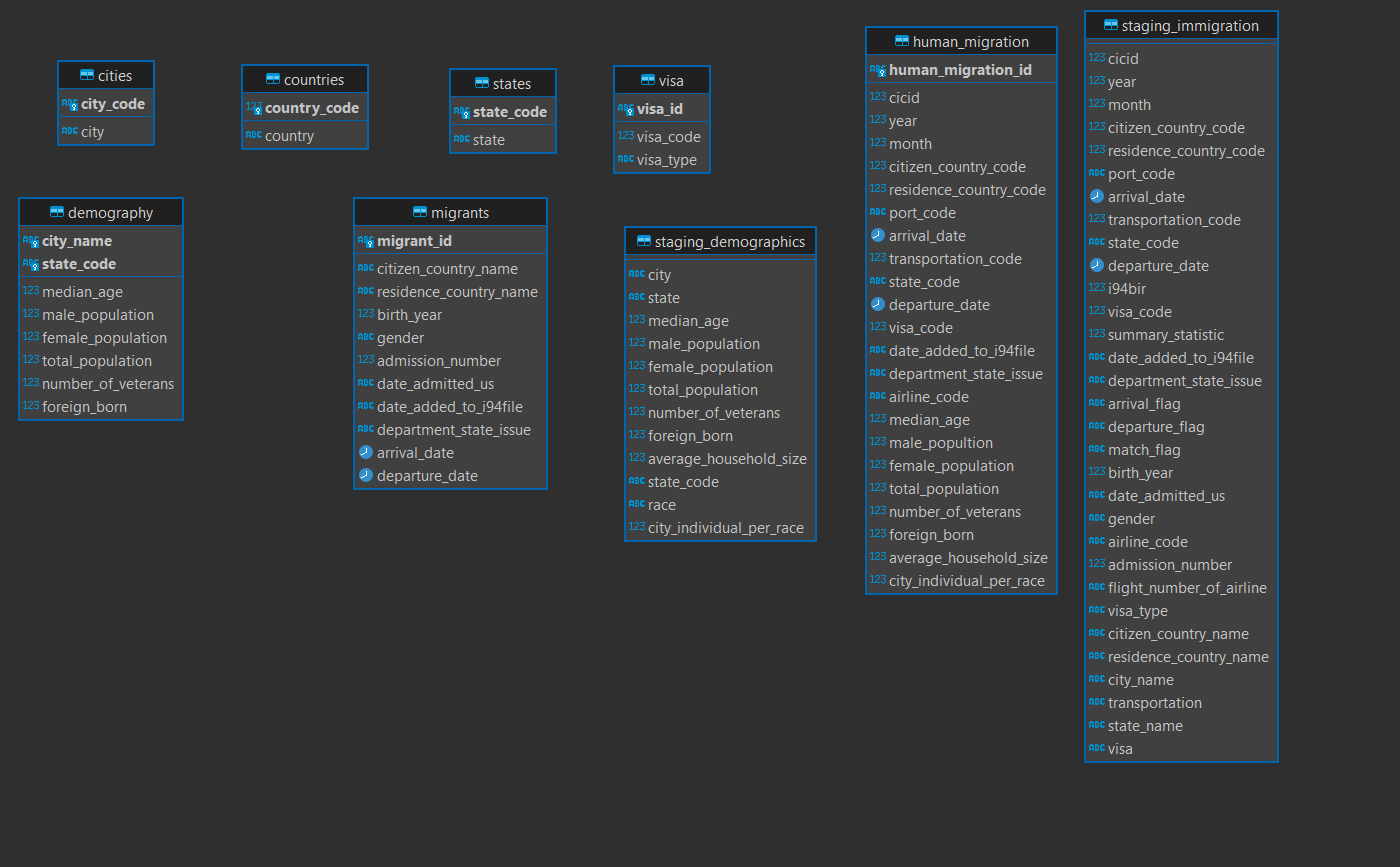
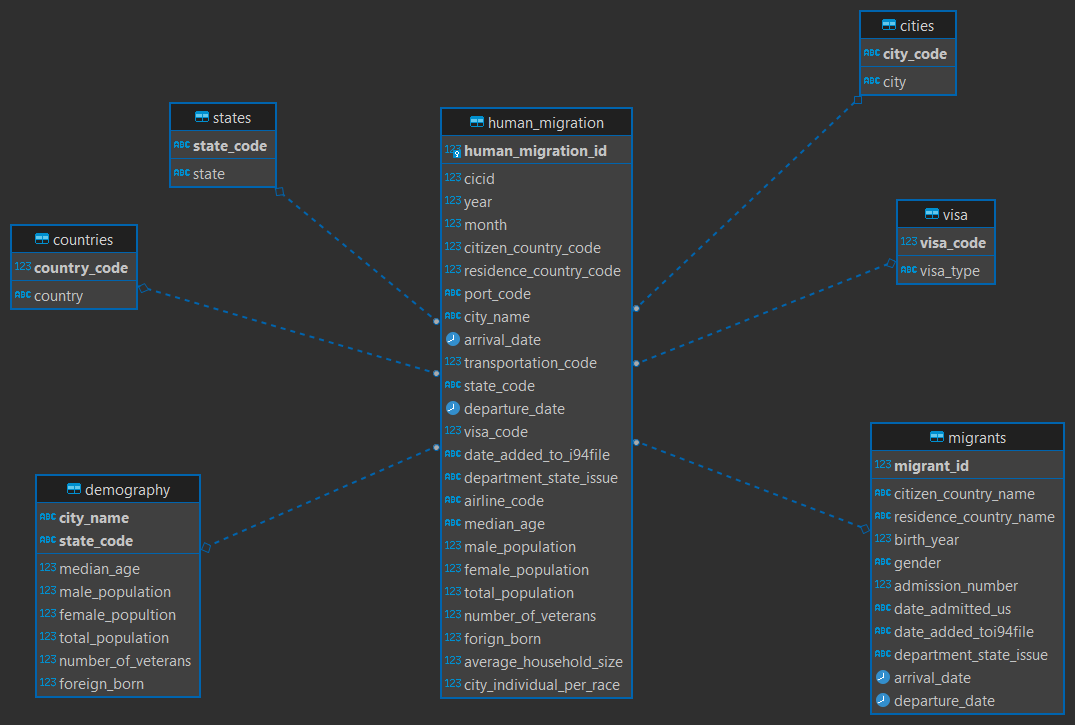
update readme

diff --git a/readme.md b/readme.md
@@ -2,13 +2,14 @@
 
 ## Project Summary
 The nantional Travel and Tourism Office (NTTO) of USA goverment manages the ADIS/I-94 visitor arrivals program in cooperation with the Department of Homeland Security. 
-To find the insight of the data I gather, data analysist can use the data to do that, I have to perform some operation to clean data and ingest data to the place where they can use it. By doing that I extract the data from the source, transform and load to S3
+The project is to build a data lake for support analytics department of US and information about demography all over the world. Query information from exracted table from two datasource 
+
+    !!!IMPORTANT: I AM NOT THE MAN WHO USE DATA TO ANALYSE FOR ANALYSIS THINGS SO WHAT IM DOING HERE IS TO MAKE DATA MAYBE MORE RELAVANT TO USE!.
 
 ### About Dataset
 1. I94Immigration : This data was created by US National Travel and Tourism Office. [This](https://travel.trade.gov/research/reports/i94/historical/2016.html) is where data come from.
-2. World Temperature Data: This data came from Kaggle. You can read more about it [here](https://www.kaggle.com/berkeleyearth/climate-change-earth-surface-temperature-data).
-3.  U.S City Demographic Data: This data comes from OpenSoft. You can read more about it [here](https://public.opendatasoft.com/explore/dataset/us-cities-demographics/export/).
-4. Airport code: This is a simple table of airport codes and corresponding cities. It comes from [here](https://datahub.io/core/airport-codes#data)
+2.  U.S City Demographic Data: This data comes from OpenSoft. You can read more about it [here](https://public.opendatasoft.com/explore/dataset/us-cities-demographics/export/).
+
 
 ### Gathering data
 The data go with code along the way so I create them for easy processing data
@@ -18,10 +19,11 @@ The data go with code along the way so I create them for easy processing data
 - i94cntyl: Code for countries
 
 ### Data Model
- Using start schema:
+ Using star schema:
  ![Start schema](img/star_schema.png)
+ I use start schema because it can used for bussiness to easy to understand and analyze, Not sure that will be more advanage to another schema, cause I am not an analysist.
 
-Include 1 fact and 5 dimenstion table:
+Include 1 fact and 6 dimenstion table:
 - Fact table: human_migration
 ![Table dictionary - human_migration](img/fact_table_dictionary.png)
 - Dimension table:
@@ -44,10 +46,13 @@ Include 1 fact and 5 dimenstion table:
 
 
 ### Technology usage:
-- Apache aiflow
-- Pyspark
-- Amazon S3
-- Amazon Redshift
+- Apache airflow: Using apache airflow help to gather data monthly without we have to do it by ourself.
+- Pyspark: To processing large dataset, we could use spark for worse scenario if data is going to bigger
+- Amazon S3: Store raw data and processing data, loading to relational dastabase
+- Amazon Redshift: A data warehouse soluditon Redshift database could help us reduce waste time to wait for the result of the query.
+
+### Data update frequently
+- The immigration pretty big, then we should update monthly and all data have linking togther then demography should be updated too.
 
 ### Future Design Consideration
 - If the data get increased by 100x:
@@ -61,8 +66,5 @@ Include 1 fact and 5 dimenstion table:
 ### Result:
 ![airflow running](img/airflow.png)
 ![airflow granttime](img/airflow_2.png)
-
-
-
 
 
